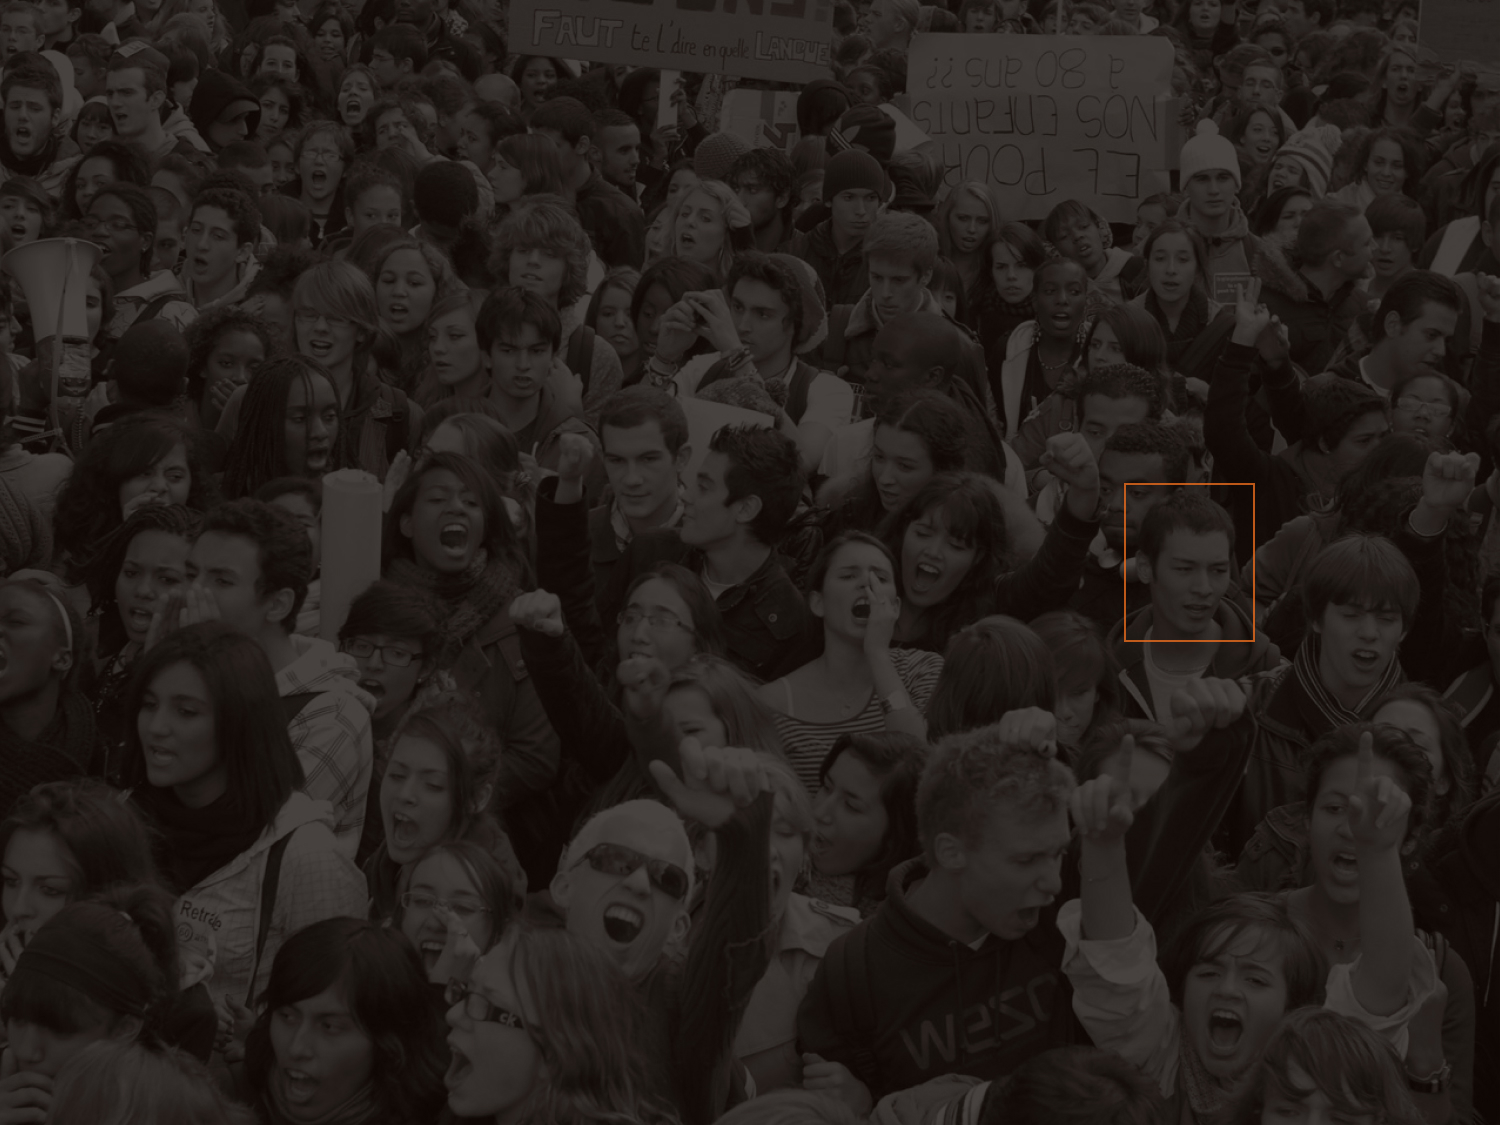
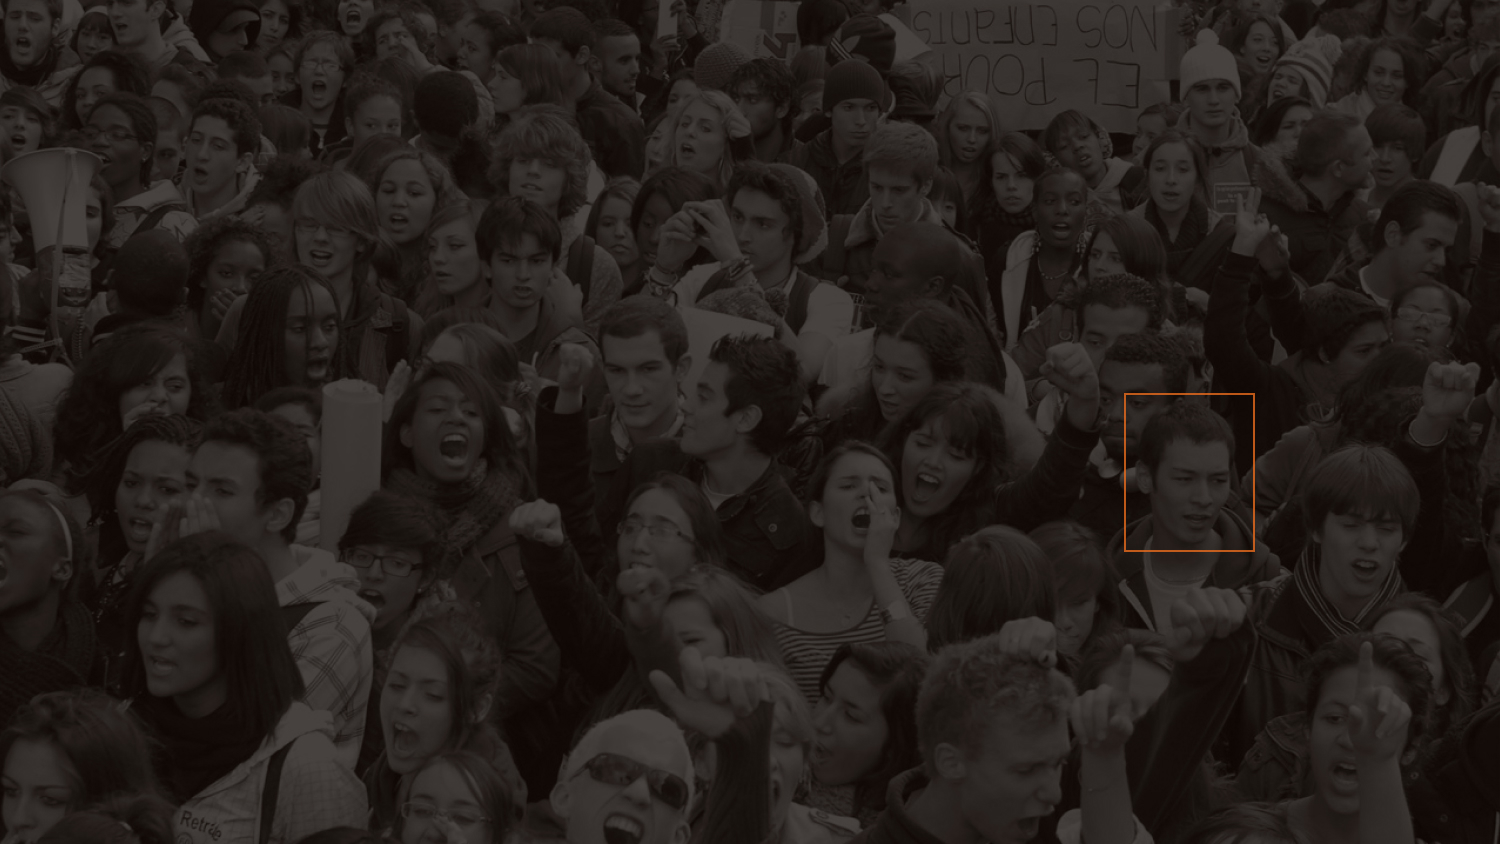
header final pass

diff --git a/src/assets/scss/components/_components.siteheader.scss b/src/assets/scss/components/_components.siteheader.scss
@@ -3,23 +3,30 @@
 // --------------------------------------------
 
 .c-siteheader {
-  background-color: $color-gray7;
-  background-image: url(../img/banner_home_1500.jpg);
-  background-position: 50% 50%;
+  background-color: $color-gray8;
+  background-image: url(../img/banner_home_600.jpg);
+  background-position: 100% 50%;
   background-repeat: no-repeat;
   background-size: cover;
 
   padding-top: pxtorem(42px);
   padding-bottom: pxtorem(42px);
 
+  @include mq(small) {
+    background-position: 50% 50%;
+    background-image: url(../img/banner_home_800.jpg);
+  }
+
   @include mq(medium) {
     padding-top: pxtorem(82px);
-    padding-bottom: pxtorem(24px);
+    padding-bottom: pxtorem(42px);
+    background-image: url(../img/banner_home_1024.jpg);
   }
 
   @include mq(large) {
     padding-top: pxtorem(120px);
-    padding-bottom: pxtorem(24px);
+    padding-bottom: pxtorem(42px);
+    background-image: url(../img/banner_home_1500.jpg);
   }
 }
 
@@ -40,6 +47,11 @@
     width: 42px;
     height: 42px;
 
+    @include mq(medium) {
+      width: 48px;
+      height: 48px;
+    }
+
     @include mq(large) {
       width: 60px;
       height: 60px;
@@ -48,14 +60,18 @@
 }
 
 .c-siteheader__content {
-  margin-top: pxtorem(180px);
-  margin-bottom: pxtorem(240px);
+  margin-top: pxtorem(84px);
+  margin-bottom: pxtorem(84px);
 
   @include mq(medium) {
+    margin-top: pxtorem(142px);
+    margin-bottom: pxtorem(142px);
     width: 600px;
   }
 
   @include mq(large) {
+    margin-top: pxtorem(180px);
+    margin-bottom: pxtorem(240px);
     width: 760px;
   }
 }

diff --git a/src/assets/scss/components/_components.sitefooter.scss b/src/assets/scss/components/_components.sitefooter.scss
@@ -63,7 +63,7 @@
   margin: 0;
   padding-top: pxtorem(18px);
   padding-bottom: pxtorem(18px);
-  border-top: 1px solid $color-gray6;
+  border-top: 1px solid rgba($color-white, 0.1);
 
   font-size: pxtorem(12px);
   font-weight: 600;
@@ -74,5 +74,10 @@
   @include mq(medium) {
     padding-top: pxtorem(24px);
     padding-bottom: pxtorem(24px);
+  }
+
+  @include mq(large) {
+    padding-top: pxtorem(36px);
+    padding-bottom: pxtorem(36px);
   }
 }

diff --git a/src/assets/scss/components/_components.lggnav.scss b/src/assets/scss/components/_components.lggnav.scss
@@ -31,7 +31,7 @@
   line-height: 1;
   letter-spacing: 1px;
   text-decoration: none;
-  color: $color-gray4;
+  color: $color-white;
 
   transition: all 0.2s ease-in-out;
 
@@ -49,5 +49,5 @@
 }
 
 .c-lggnav__link.is-active {
-  color: $color-white;
+  color: $color-brand1;
 }

diff --git a/src/assets/scss/components/_components.titles.scss b/src/assets/scss/components/_components.titles.scss
@@ -85,6 +85,7 @@
   font-weight: 600;
   line-height: (24/16);
   font-family: $fontstack-alt;
+  letter-spacing: 1px;
   color: $color-white;
 }
 
